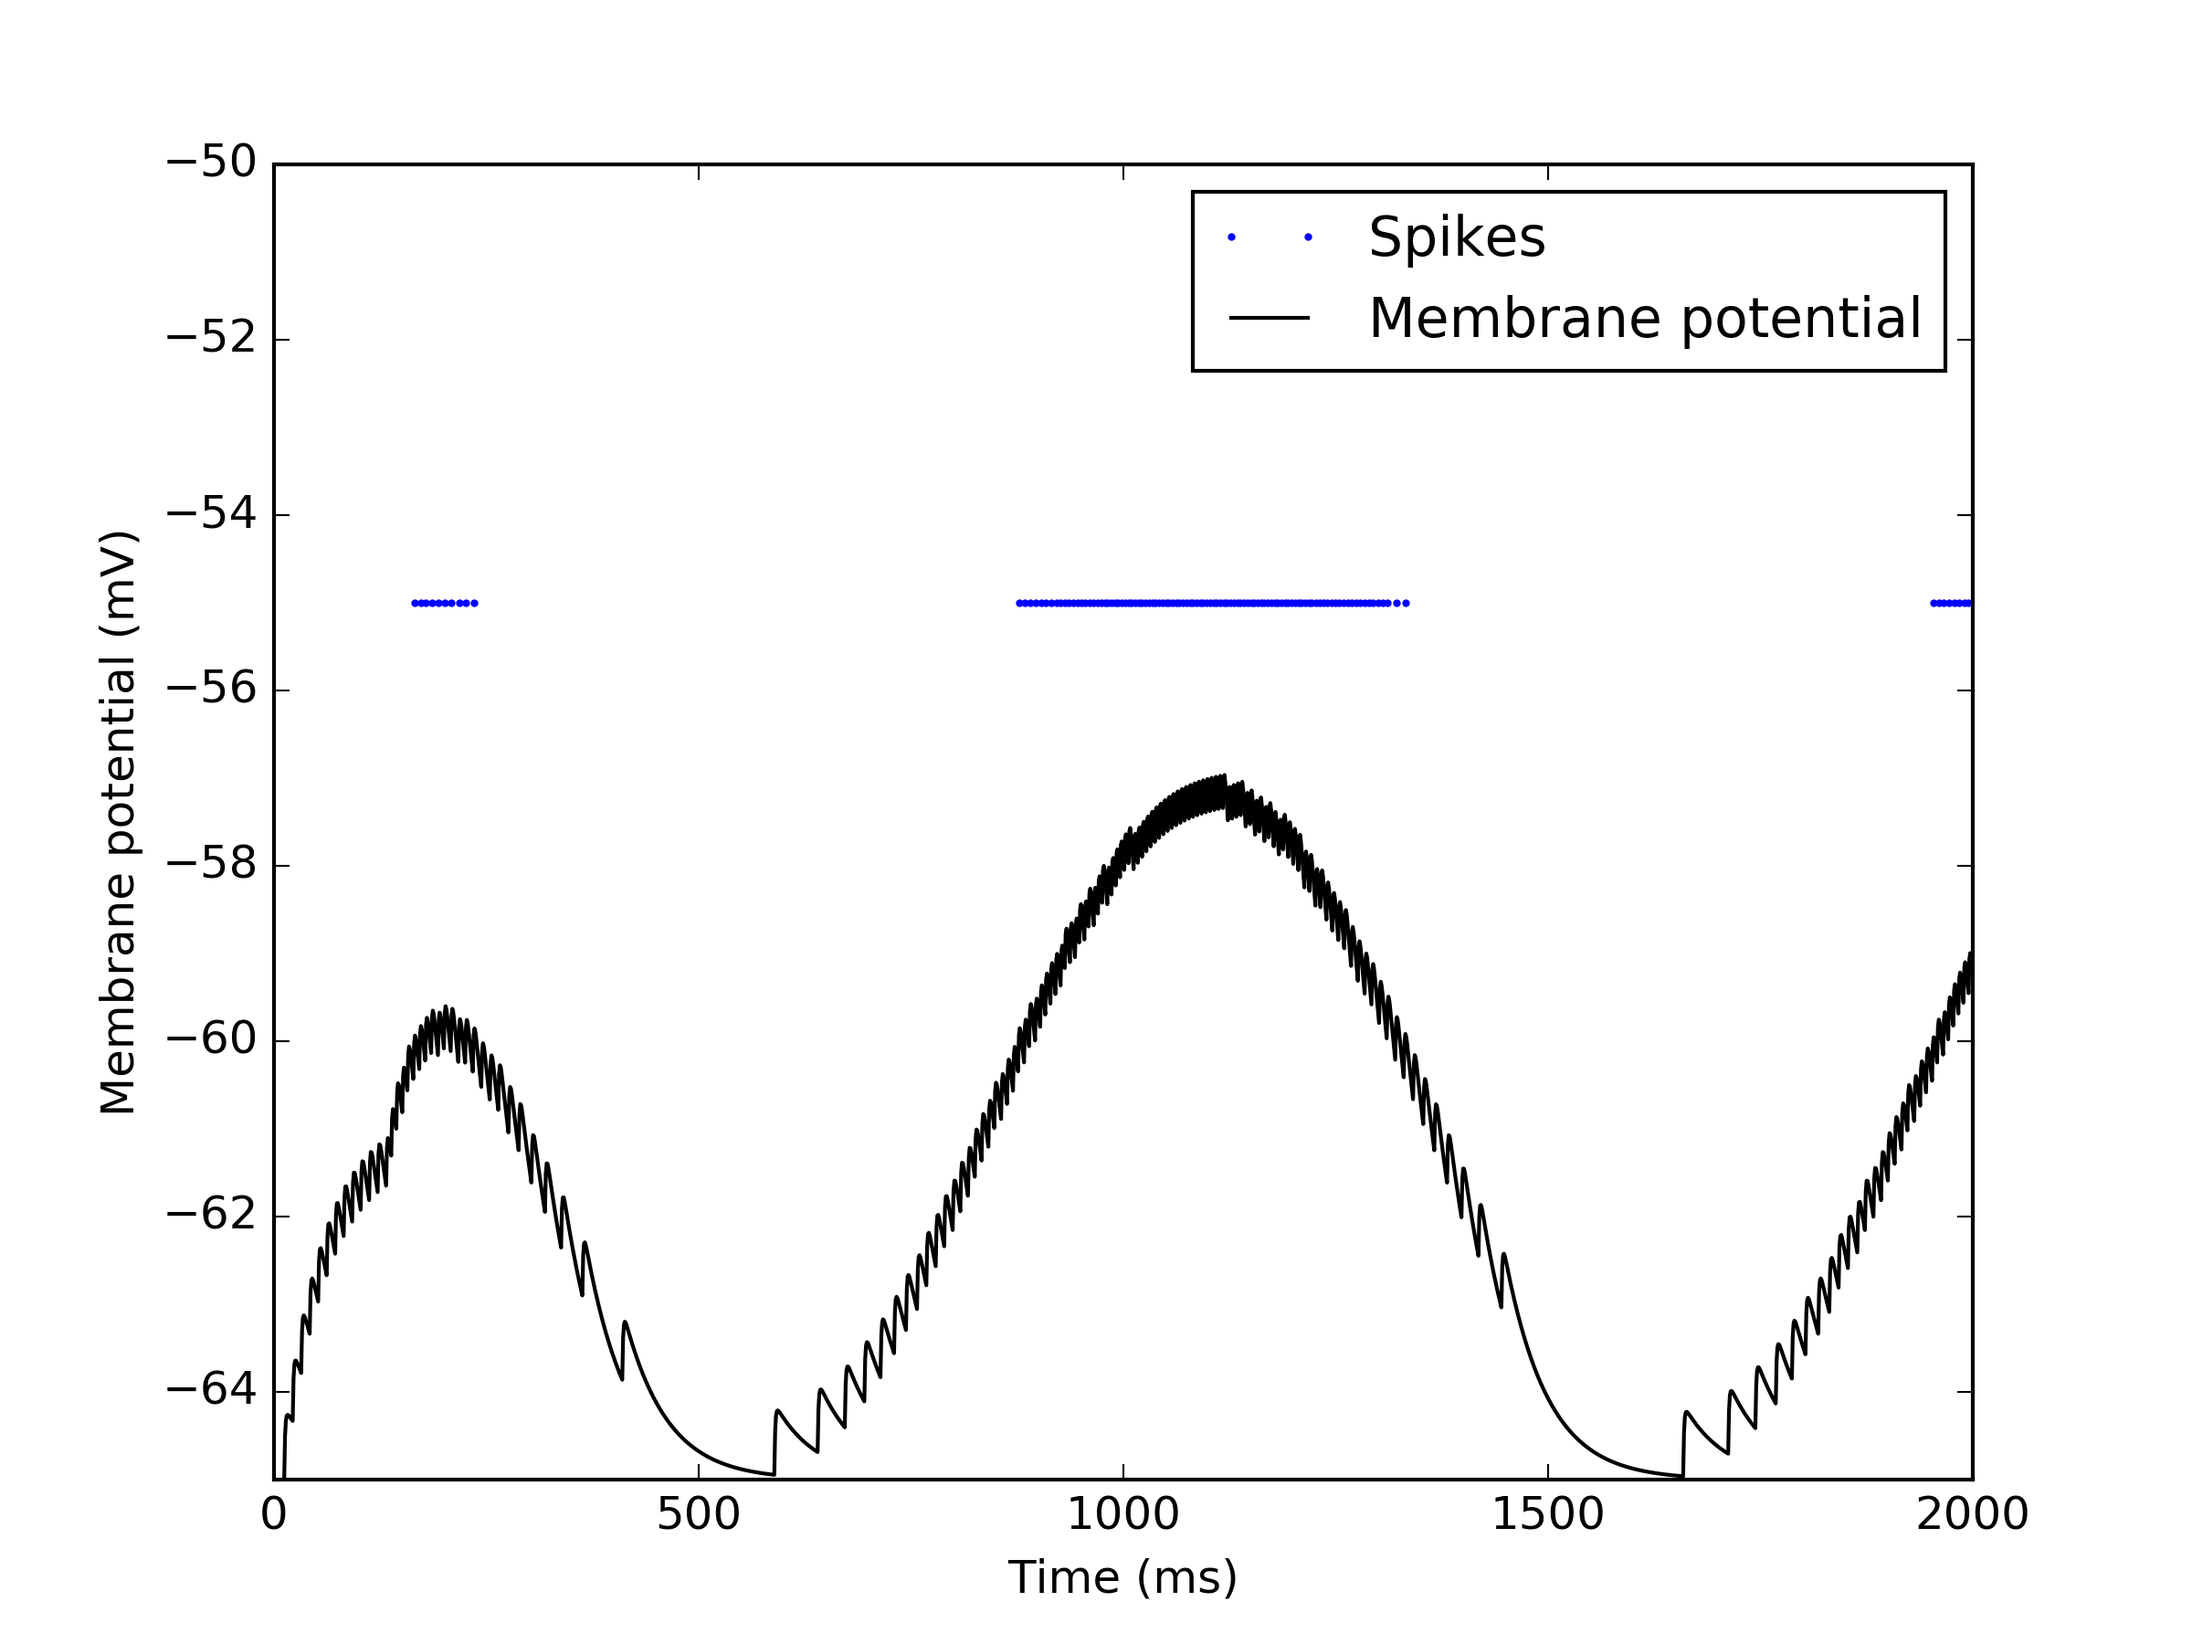
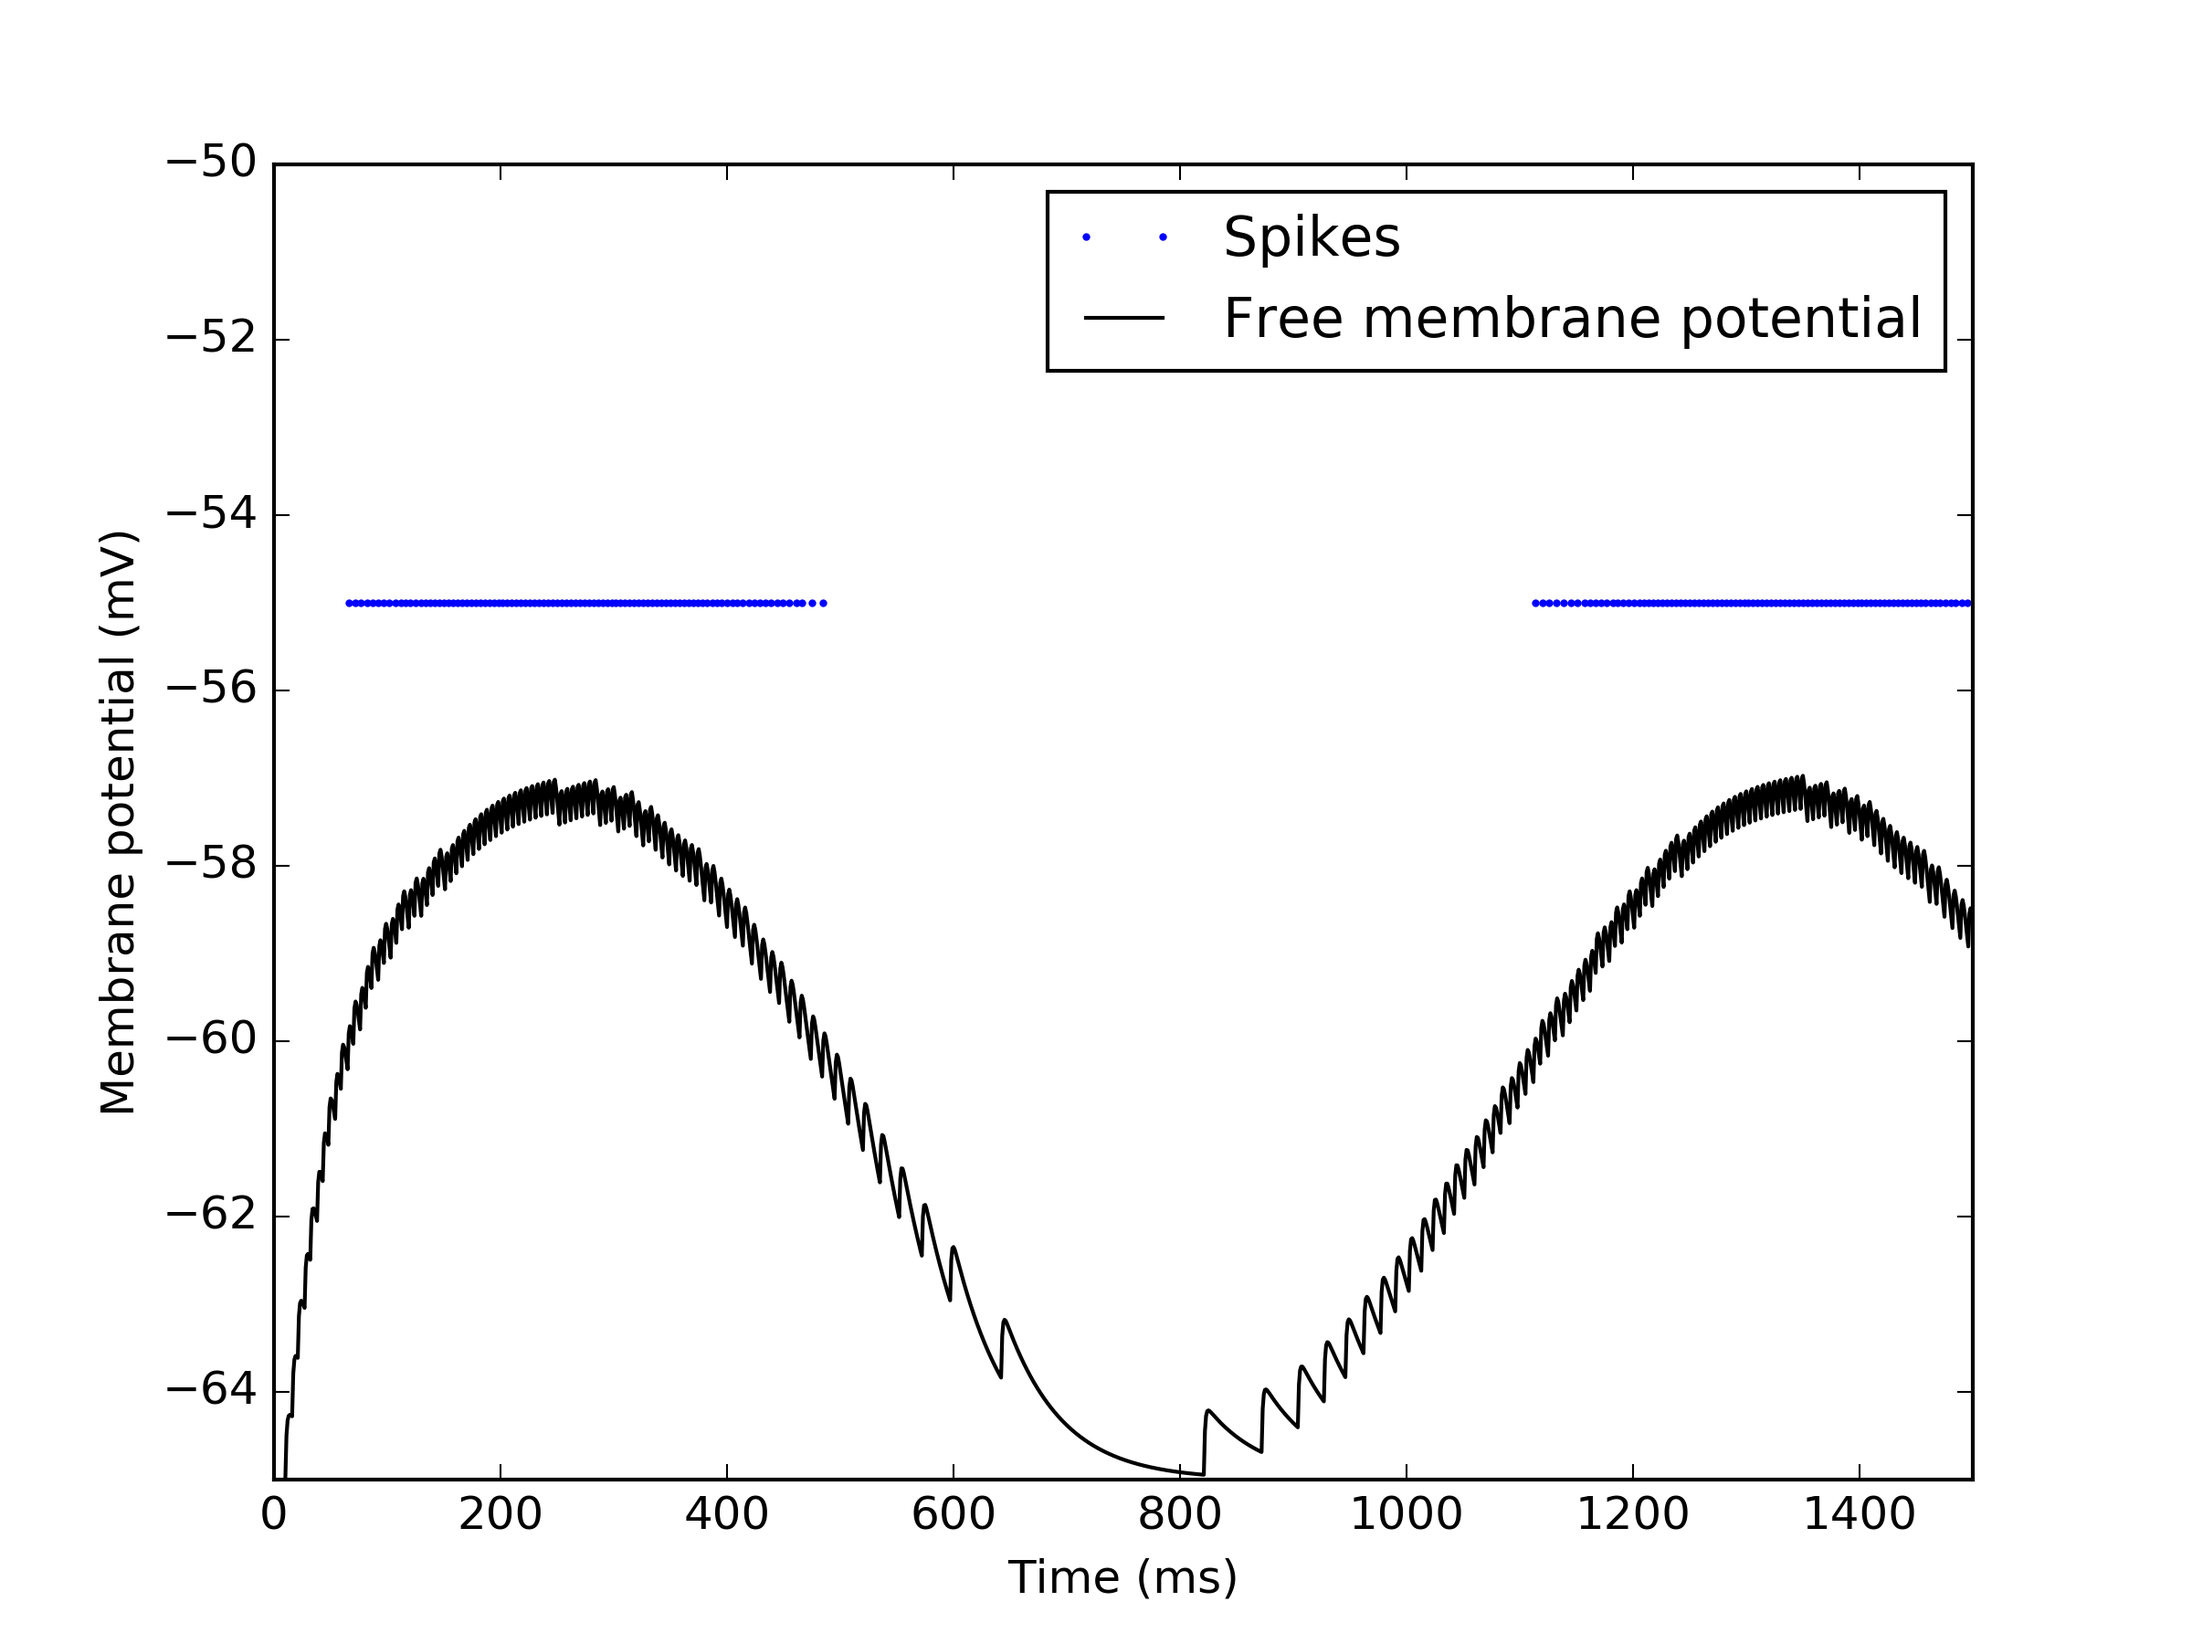
Update readme

diff --git a/example2/nest_sim.py b/example2/nest_sim.py
@@ -7,7 +7,7 @@ import sys
 from mpi4py import MPI
 comm = MPI.COMM_WORLD
 
-simtime = 2000.
+simtime = 1500.
 tau_m = 1.
 tau_syn = 50.
 
@@ -52,7 +52,7 @@ ax.set_xlim([0., simtime])
 ax.set_ylim([-65., -50.])
 
 ax.plot(spikes['times'], [-55.] * len(spikes['times']), 'bo', label='Spikes', markeredgewidth=0, markersize=2)
-ax.plot(vm['times'], vm['V_m'], 'k', label='Membrane potential')
+ax.plot(vm['times'], vm['V_m'], 'k', label='Free membrane potential')
 
 ax.legend(loc='upper right')
 

diff --git a/README.rst b/README.rst
@@ -14,7 +14,9 @@ You first need to install a variety of tools:
 5. Install gymz via pip (<https://pypi.python.org/pypi/gymz>)
 
 [IDEA: build everything up from scratch, only introduce one new script at a time]
+
 [postpone installation of the required components as far as possible to minimize frustration and create a TLDR for the impatient]
+
 [lighten the style, this is currently a huge wall of text]
 
 [before you start, please make sure to have all paths set correctly (see add_paths.sh)]
@@ -52,12 +54,20 @@ You can run this example by starting the sender in one terminal and the receiver
 
 
 Example 1: Python to Python via ZeroMQ & MUSIC
------------------------------------------------
+----------------------------------------------
 
 Preparations:
 
 - Download and install MUSIC from <https://github.com/incf-music>
 - Download and install MUSIC adapters from <https://github.com/incf-music/music-adapters>
+- Set your paths properly
+
+.. code:: bash
+
+          export PATH=<MUSIC-install>/bin:$PATH
+          export LD_LIBRARY_PATH=<MUSIC-install>/lib:$LD_LIBRARY_PATH
+          export PATH=<music-adapters-install>/bin:$PATH
+
 - Nagivate to example1/
 
 We now include a MUSIC adapter in the loop.
@@ -115,12 +125,17 @@ You should see a similar output as in the first example, but now all negative va
 
 
 Example 2: Python to NEST via ZeroMQ & MUSIC
--------------------------------------------
+--------------------------------------------
 
 Preparations:
 
-- Download and install NEST from <https://github.com/nest/nest-simulator>
+- Download and install NEST from <https://github.com/nest/nest-simulator>.
   Do not forget to set `-Dwith-music=ON` while running cmake.
+- Set your paths properly
+
+.. code:: bash
+
+          export PYTHONPATH=<nest-simulator-install>/lib/<python-version>/site-packages:$PYTHONPATH
 
 Since the previous example has already demonstrated how to send data from a Python script via ZeroMQ to MUSIC and back, the hardest part is already over.
 We can now use the MUSIC devices available in NEST, also called MUSIC proxies, to receive data in a running simulation.
@@ -132,7 +147,8 @@ For example, for the message ``[{'min': -2, 'max': 1, 'value': 0.1, 'ts': 150844
 
 In NEST, we create a MUSIC proxy that receives spikes (``music_event_in_proxy``).
 Here we need to specify the portname also defined in the MUSIC config to receive data ("in").
-In our example, this proxy is connected to a neuron from which we record the spike train, and we use an additional neuron to be able to record the free membrane potential.
+In our example, this proxy projects to a neuron from which we record the spike train, and an additional neuron from which we can record the free membrane potential.
+
 
 Run the example by starting the sender and receiver, and running MUSIC with the corresponding config file and an appropiate number of processes.
 After the simulations has finished you should see a plot of the spikes and the free membrane potential of the neuron receiving input from our Python script.
